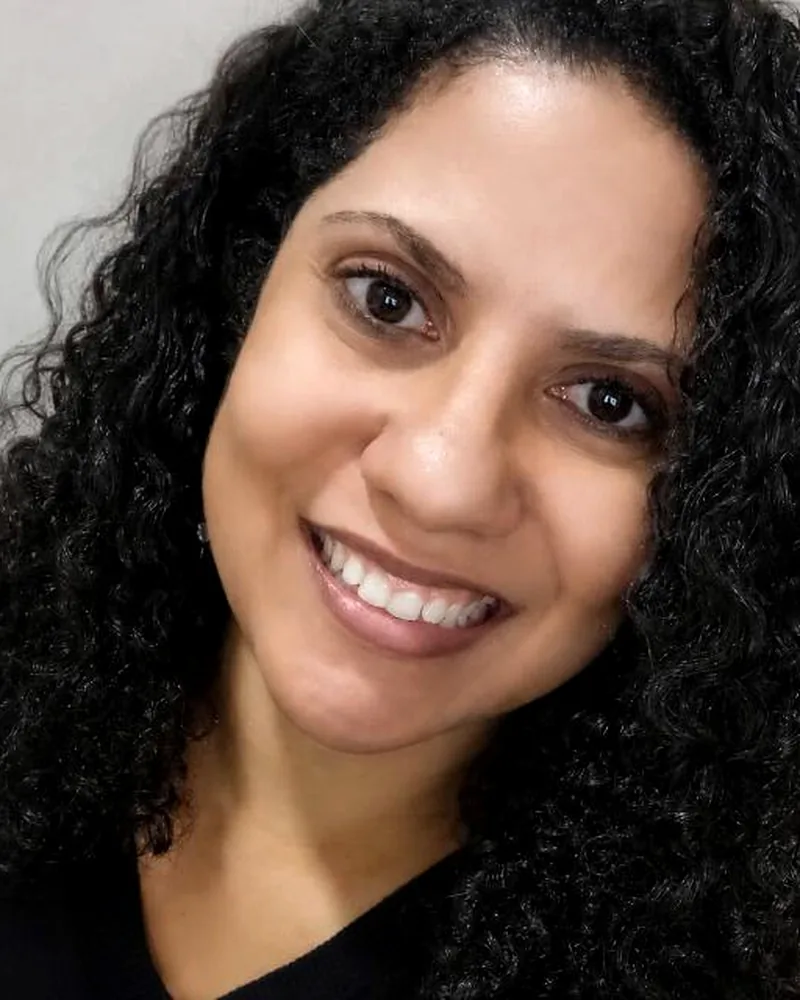
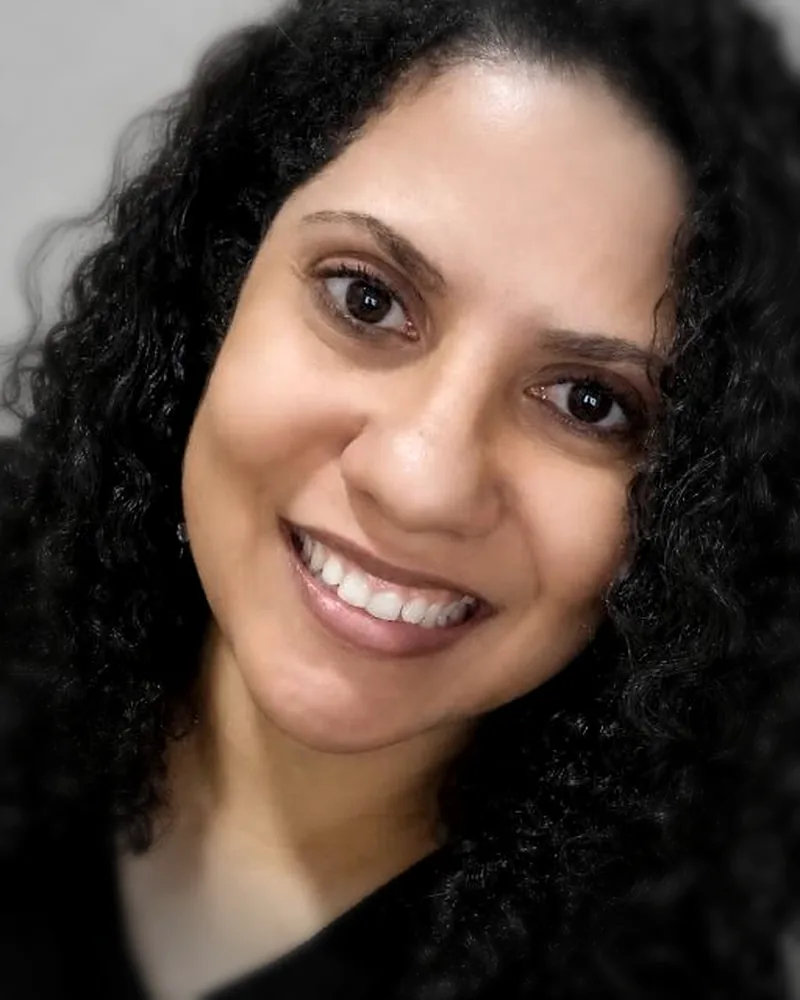
feat: aplica tratamento sobrio no retrato e documenta prompt

diff --git a/docs/prompt-retrato.md b/docs/prompt-retrato.md
@@ -1,0 +1,63 @@
+# Prompt de retrato profissional
+
+Prompt pronto para colar em qualquer gerador de imagem com edição (Abacus.AI, Gemini/Nano Banana,
+FAL, Eachlabs). Baseado no ADR 0006 e no preset jurídico da skill `ai-headshot-generation`.
+
+## Prompt principal (pt-BR)
+
+```
+Transforme esta selfie em um retrato profissional de estúdio para uma advogada trabalhista.
+Mantenha a identidade da pessoa exatamente como está: mesmo rosto, mesmo formato de olhos, nariz,
+boca, tom de pele, cabelo cacheado volumoso e idade aparente. Não embeleze, não altere traços,
+não mude a etnia nem a textura da pele.
+
+Vestiário: blazer de alfaiataria em tom grafite ou azul-marinho escuro, corte reto, camisa branca
+de colarinho fechado por baixo. Sem estampa, sem brilho, sem joia chamativa.
+
+Fundo: interior de escritório de advocacia desfocado, com estante de livros jurídicos ao fundo,
+tons neutros de cinza e madeira escura, profundidade de campo curta. Nada de balança, martelo,
+coluna grega ou placa de lei.
+
+Postura e expressão: ombros alinhados, coluna ereta, queixo levemente erguido, olhar direto para a
+câmera, expressão serena e sóbria, boca fechada ou sorriso discreto. Sem sorriso aberto.
+
+Luz e cor: luz de estúdio suave e difusa vinda da esquerda, preenchimento sutil à direita, sombra
+suave sob o queixo. Paleta neutra e fria, contraste médio, saturação contida. Pele com textura
+natural, sem plástico.
+
+Enquadramento: retrato 4:5, do topo da cabeça até a altura do peito, rosto centralizado no terço
+superior, espaço negativo acima da cabeça.
+
+Estilo: fotografia editorial sóbria de escritório de advocacia. Realista, sem HDR, sem filtro de
+rede social, sem aspecto de imagem gerada por IA.
+```
+
+## Prompt negativo
+
+```
+sorriso aberto, dentes à mostra, maquiagem pesada, pele lisa de plástico, rosto de outra pessoa,
+traços alterados, cabelo liso, balança da justiça, martelo de juiz, coluna grega, livros com
+título legível, fundo de Chroma key, gradiente roxo, neon, HDR, saturação alta, desfoque artificial
+de retrato de celular, marca d'água, texto na imagem
+```
+
+## Parâmetros
+
+| Item | Valor |
+|---|---|
+| Proporção | 4:5 |
+| Resolução de saída | 800x1000 (o site redimensiona) |
+| Formato final | WebP, qualidade 82 |
+| Caminho no projeto | `assets/img/retrato.webp` |
+| Fidelidade ao rosto | máxima; rejeitar a geração se o rosto não for reconhecível |
+
+## Checklist antes de aceitar a imagem
+
+1. O rosto é reconhecivelmente a Ana Paula Mello.
+2. A roupa é blazer escuro com camisa clara, sem estampa.
+3. O fundo é escritório desfocado, sem símbolo jurídico clichê.
+4. A expressão é sóbria, sem sorriso aberto.
+5. Não há texto, marca d'água ou artefato visível.
+6. O enquadramento vai da cabeça ao peito, em 4:5.
+
+Reprovou em 1 ou 5? Gere de novo. Reprovou em 2, 3, 4 ou 6? Ajuste o prompt e repita.
